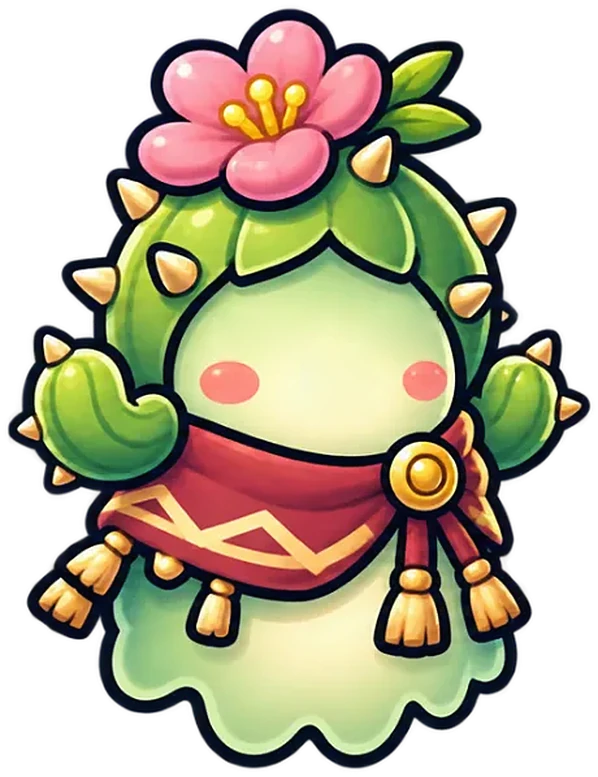
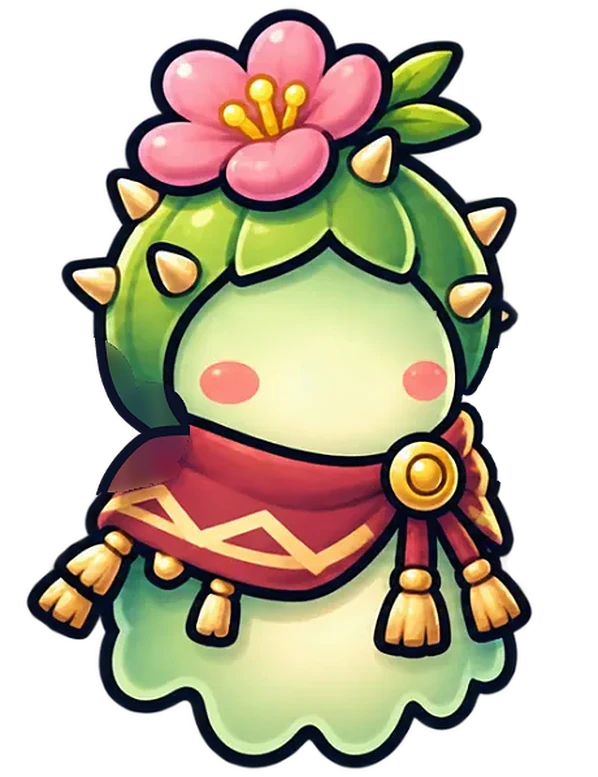
Piks's arms are cut out of the figure and turn on hinges of their own
Bending the body picture dragged parts of the head along and tore a spike.
build_new.py now finds each arm by its dark contour, cuts it out as a picture
of its own and paints in what the front arm covered. The rig turns such an arm
by a share of a loose arm's turn, within limits, and draws an arm that lies
behind the body before it.

Changed region(s): [[0.0, 0.4015, 0.3311, 0.6486], [0.7525, 0.4015, 0.9933, 0.6178]]

diff --git a/app/src/data/rigs.gen.ts b/app/src/data/rigs.gen.ts
@@ -21,7 +21,7 @@ export const RIGS: Record<string, RigConfig> = {
   "phoenix": {"k": 0.5064, "cx": 348.8, "cy": 433.5, "pivot": 175.4, "eyeY": 304.0, "eyeDX": 60.0, "mouth": [353.6, 334.4], "blush": [0, 0, 0], "fs": 1.0, "ms": 0.83, "u": 0.589, "m": 0.731, "eyes": "LR", "armL": {"at": [16.0, 455.0], "anchor": [0, 0], "s": 1, "hand": [-8.8, 43.8]}, "armR": {"at": [546.0, 455.0], "anchor": [0, 0], "s": 1, "hand": [8.8, 43.8]}, "tuft": null, "flow": [80.4, 268.9], "breath": [109.6, 168.0], "tail": [423.3, 548, 521.8, 607.6], "top": 7, "baked": ["arms", "blush"], "limbs": {"L": {"at": [227.2, 428.8], "shape": [220.8, 329.6, 112.0, 307.2, -32.0, 328.0, -40.0, 451.2, 25.6, 496.0, 112.0, 521.6, 220.8, 518.4], "ramp": [24.0, 112.0], "gain": -0.2, "max": 17, "lift": 8}, "R": {"at": [422.4, 454.4], "shape": [425.6, 384.0, 480.0, 358.4, 576.0, 364.8, 592.0, 473.6, 540.8, 528.0, 480.0, 531.2, 425.6, 521.6], "ramp": [28.8, 88.0], "gain": -0.2, "max": 17, "lift": 8}}},
   "moondeer": {"k": 0.5239, "cx": 308.0, "cy": 422.3, "pivot": 169.5, "eyeY": 305.6, "eyeDX": 53.6, "mouth": [318.4, 336.0], "blush": [0, 0, 0], "fs": 0.92, "ms": 0.76, "u": 0.535, "m": 0.706, "eyes": "LR", "armL": {"at": [11.0, 457.0], "anchor": [0, 0], "s": 1, "hand": [-8.5, 42.4]}, "armR": {"at": [469.0, 457.0], "anchor": [0, 0], "s": 1, "hand": [8.5, 42.4]}, "tuft": null, "flow": [77.7, 259.9], "breath": [105.9, 162.4], "tail": [403.2, 521, 507.6, 590.6], "top": 10, "baked": ["arms", "blush"], "limbs": {"L": {"at": [179.2, 328.0], "shape": [192.0, 281.6, 112.0, 265.6, 76.8, 300.8, -16.0, 313.6, -16.0, 384.0, 96.0, 400.0, 179.2, 380.8, 198.4, 336.0], "ramp": [12.8, 72.0], "gain": 0.35, "max": 24}, "R": {"at": [403.2, 324.8], "shape": [396.8, 288.0, 440.0, 272.0, 476.8, 297.6, 552.0, 307.2, 552.0, 371.2, 432.0, 384.0, 393.6, 358.4], "ramp": [9.6, 54.4], "gain": 0.35, "max": 24}}},
   "cloud": {"k": 0.4917, "cx": 338.7, "cy": 427.0, "pivot": 180.6, "eyeY": 330.2, "eyeDX": 72.2, "mouth": [345.8, 370.5], "blush": [0, 0, 0], "fs": 1.08, "ms": 0.83, "u": 0.628, "m": 0.752, "eyes": "LR", "armL": {"at": [75.4, 539.5], "anchor": [96.8, 34.7], "s": 1.0, "hand": [24.3, 95.5]}, "armR": {"at": [509.6, 539.5], "anchor": [24.2, 34.7], "s": 1.0, "hand": [95.8, 94.8]}, "tuft": null, "flow": [82.8, 276.9], "breath": [112.9, 173.1], "tail": [436.9, 565, 524.8, 610.9], "top": 8, "baked": ["blush"]},
-  "cactus": {"k": 0.5059, "cx": 330.2, "cy": 415.2, "pivot": 175.5, "eyeY": 338.0, "eyeDX": 70.2, "mouth": [338.0, 377.0], "blush": [0, 0, 0], "fs": 1.1, "ms": 0.79, "u": 0.577, "m": 0.731, "eyes": "LR", "armL": {"at": [55.0, 533.0], "anchor": [0, 0], "s": 1, "hand": [-8.8, 43.9]}, "armR": {"at": [513.0, 533.0], "anchor": [0, 0], "s": 1, "hand": [8.8, 43.9]}, "tuft": null, "flow": [80.4, 269.1], "breath": [109.7, 168.2], "tail": [456.9, 591, 510.3, 594.0], "top": 8, "baked": ["arms", "blush"], "limbs": {"L": {"at": [153.4, 429.0], "shape": [130.0, 327.6, 71.5, 301.6, 6.5, 309.4, -26.0, 422.5, 6.5, 522.6, 97.5, 525.2, 153.4, 488.8, 158.6, 455.0, 184.6, 431.6, 184.6, 392.6, 148.2, 384.8, 140.4, 353.6], "ramp": [20.8, 80.6], "gain": 0.3, "max": 24}, "R": {"at": [483.6, 413.4], "shape": [486.2, 340.6, 509.6, 309.4, 574.6, 299.0, 621.4, 364.0, 624.0, 426.4, 595.4, 483.6, 526.5, 501.8, 486.2, 470.6, 473.2, 431.6, 478.4, 377.0], "ramp": [15.6, 65.0], "gain": 0.3, "max": 24}}},
+  "cactus": {"k": 0.5059, "cx": 330.2, "cy": 415.2, "pivot": 175.5, "eyeY": 338.0, "eyeDX": 70.2, "mouth": [338.0, 377.0], "blush": [0, 0, 0], "fs": 1.1, "ms": 0.79, "u": 0.577, "m": 0.731, "eyes": "LR", "armL": {"at": [158.6, 413.4], "anchor": [158.6, 135.2], "s": 1, "hand": [31.7, 117.1], "gain": 0.4, "up": 42, "down": 12}, "armR": {"at": [497.9, 455.0], "anchor": [44.2, 163.8], "s": 1, "hand": [88.9, 53.6], "gain": 0.16, "up": 16, "down": 0, "back": true}, "tuft": null, "flow": [80.4, 269.1], "breath": [109.7, 168.2], "tail": [415.6, 532, 510.3, 594.0], "top": 8, "baked": ["blush"]},
   "dragon": {"k": 0.6471, "cx": 228.5, "cy": 324.4, "pivot": 137.2, "eyeY": 197.0, "eyeDX": 65.0, "mouth": [218.5, 236.0], "blush": [0, 0, 0], "fs": 0.58, "ms": 0.58, "u": 0.551, "m": 0.572, "eyes": "LR", "armL": {"at": [57.0, 392.0], "anchor": [0, 0], "s": 1, "hand": [-6.9, 34.3]}, "armR": {"at": [502.0, 392.0], "anchor": [0, 0], "s": 1, "hand": [6.9, 34.3]}, "tuft": null, "flow": [62.9, 210.4], "breath": [85.8, 131.5], "tail": [406.7, 527, 398.7, 464.2], "top": 6, "baked": ["arms", "blush"], "limbs": {"L": {"at": [118.0, 292.0], "shape": [128.0, 232.0, 85.0, 210.0, -15.0, 285.0, -15.0, 350.0, 60.0, 380.0, 102.0, 356.0, 118.0, 330.0, 122.0, 300.0], "ramp": [12.0, 60.0], "gain": 0.3, "max": 24}, "R": {"at": [392.0, 312.0], "shape": [402.0, 262.0, 425.0, 236.0, 480.0, 245.0, 548.0, 325.0, 545.0, 375.0, 445.0, 410.0, 388.0, 376.0, 378.0, 340.0, 382.0, 300.0], "ramp": [12.0, 62.0], "gain": 0.3, "max": 24}}},
   "jellyfish": {"k": 0.596, "cx": 266.5, "cy": 351.7, "pivot": 149.0, "eyeY": 323.0, "eyeDX": 78.5, "mouth": [267.0, 364.0], "blush": [0, 0, 0], "fs": 0.74, "ms": 0.7, "u": 0.677, "m": 0.621, "eyes": "LR", "armL": {"at": [62.0, 528.0], "anchor": [0, 0], "s": 1, "hand": [-7.4, 37.2]}, "armR": {"at": [441.0, 528.0], "anchor": [0, 0], "s": 1, "hand": [7.4, 37.2]}, "tuft": null, "flow": [68.3, 228.5], "breath": [93.1, 142.8], "tail": [425.7, 551, 432.4, 503.4], "top": 6, "baked": ["arms", "blush"], "limbs": {"L": {"at": [120.0, 318.0], "shape": [124.0, 250.0, 60.0, 236.0, -15.0, 258.0, -10.0, 335.0, 36.0, 372.0, 62.0, 385.0, 122.0, 376.0], "ramp": [10.0, 55.0], "gain": 0.35, "max": 24}, "R": {"at": [406.0, 322.0], "shape": [402.0, 250.0, 470.0, 236.0, 548.0, 258.0, 540.0, 335.0, 492.0, 382.0, 460.0, 393.0, 402.0, 382.0], "ramp": [10.0, 55.0], "gain": 0.35, "max": 24}, "top": {"at": [266.0, 148.0], "shape": [228.0, 152.0, 220.0, 110.0, 255.0, 20.0, 340.0, -15.0, 450.0, -10.0, 575.0, 70.0, 575.0, 215.0, 475.0, 250.0, 410.0, 202.0, 395.0, 165.0, 330.0, 132.0, 300.0, 152.0], "ramp": [12.0, 80.0], "gain": 0.6, "max": 14}}},
 };

diff --git a/app/src/rig/rig.ts b/app/src/rig/rig.ts
@@ -19,7 +19,7 @@ import { GLINT_FOLLOW, eyePose, lids, pupilShift } from './gaze';
 import { GestureTracker } from './gestures';
 import type { Gesture } from './gestures';
 import { RIGS } from '../data/rigs.gen';
-import type { Limb, RigConfig, Vec } from '../data/rigTypes';
+import type { ArmRig, Limb, RigConfig, Vec } from '../data/rigTypes';
 import { AuraSim, SvgAura } from '../fx/aura';
 import type { AuraBox } from '../fx/aura';
 import { NEUTRAL_LIGHT, lightOn, sceneLight } from '../fx/light';
@@ -104,6 +104,16 @@ interface Lid {
 /** Where the ground shadow lies in the 600-unit stage: close under the ghost, so it reads as its own. */
 const SHADOW_Y = 500;
 const clamp = (v: number, a: number, b: number) => Math.max(a, Math.min(b, v));
+/**
+ * How far an arm is turned. A loose arm turns as far as asked. One that was cut out of the finished figure
+ * hangs where it was painted: it takes a share of the turn and keeps within its limits.
+ */
+function armTurn(a: ArmRig, deg: number, left: boolean): number {
+  if (a.gain === undefined) return deg;
+  // a positive turn raises the left arm and lowers the right one
+  const rise = clamp((left ? deg : -deg) * a.gain, -(a.down ?? 0), a.up ?? 180);
+  return left ? rise : -rise;
+}
 const smooth = (a: number, b: number, v: number) => {
   const x = clamp((v - a) / (b - a), 0, 1);
   return x * x * (3 - 2 * x);
@@ -704,7 +714,7 @@ void main(){
     const a = R.armL;
     const sh = D(a.at[0], a.at[1]);
     // the hand as the arm swings right now: the charm keeps clear of it
-    const off = rot(S.armL.x, (a.hand[0] - a.anchor[0]) * a.s, (a.hand[1] - a.anchor[1]) * a.s);
+    const off = rot(armTurn(a, S.armL.x, true), (a.hand[0] - a.anchor[0]) * a.s, (a.hand[1] - a.anchor[1]) * a.s);
     const hand = D(a.at[0] + off[0], a.at[1] + off[1]);
     const half = CHARM_SIZE / 2;
     const left = view.x + half + 4,
@@ -847,7 +857,7 @@ void main(){
   /** Where a hand is right now, in stage units. */
   function handAt(left: boolean): Vec {
     const a = left ? R.armL : R.armR;
-    const off = rot(left ? S.armL.x : S.armR.x, (a.hand[0] - a.anchor[0]) * a.s, (a.hand[1] - a.anchor[1]) * a.s);
+    const off = rot(armTurn(a, left ? S.armL.x : S.armR.x, left), (a.hand[0] - a.anchor[0]) * a.s, (a.hand[1] - a.anchor[1]) * a.s);
     return D(a.at[0] + off[0], a.at[1] + off[1]);
   }
   function holdEnd() {
@@ -1224,6 +1234,13 @@ void main(){
       return D(x, y);
     };
     const hem: Vec = [(R.cy + R.flow[0]) / body.h, R.flow[1] / body.h];
+    // an arm that lies behind the body is drawn before it, the others after the face
+    const drawArm = (left: boolean) => {
+      const a = left ? R.armL : R.armR;
+      hinged(left ? 'arm_L' : 'arm_R', a.at, a.anchor, armTurn(a, left ? S.armL.x : S.armR.x, left), a.s);
+    };
+    if (R.armL.back) drawArm(true);
+    if (R.armR.back) drawArm(false);
     if (R.tuft) hinged('tuft', R.tuft.at, R.tuft.anchor, R.tuft.rest + S.tuft.x, 1, 1, { glow: clamp(lv * 0.9 + flash, 0, 1.2) });
     drawGrid('body', gx, gy, onBody, 1, { level: lv, glow: clamp((S.glow.x - lv * 0.6) * 0.6, 0, 1), boost: focus, hem });
 
@@ -1300,8 +1317,8 @@ void main(){
     const chatter = 1 + (reduce ? 0 : Math.sin(T * 17) * 0.07 * happy);
     skin('mouth_laugh', mx, my + 16 * u, ms * pop, ms * pop * chatter, M.laugh.x);
 
-    hinged('arm_L', R.armL.at, R.armL.anchor, S.armL.x, R.armL.s);
-    hinged('arm_R', R.armR.at, R.armR.anchor, S.armR.x, R.armR.s);
+    if (!R.armL.back) drawArm(true);
+    if (!R.armR.back) drawArm(false);
     auraSvg.setGlow(glowRgb);
     auraSvg.sync(aura, mode === 'focus');
     drawCharm(sleepy);
@@ -1520,6 +1537,12 @@ export async function renderPortrait(l: Pick<Look, 'ghost'>, size: number): Prom
     ops.push({ im: T[name], p: toStage(u, v), s: s * R.k, deg, anchor });
   };
   if (R.tuft) put('tuft', R.tuft.at[0], R.tuft.at[1], 1, R.tuft.rest, R.tuft.anchor);
+  // an arm that lies behind the body comes first
+  const arm = (name: 'arm_L' | 'arm_R', a: ArmRig, back: boolean) => {
+    if (!!a.back === back) put(name, a.at[0], a.at[1], a.s, 0, a.anchor);
+  };
+  arm('arm_L', R.armL, true);
+  arm('arm_R', R.armR, true);
   const b = T.body;
   put('body', b.naturalWidth / 2, b.naturalHeight / 2);
   put('blush_L', R.cx - R.blush[0], R.blush[1], R.blush[2]);
@@ -1527,8 +1550,8 @@ export async function renderPortrait(l: Pick<Look, 'ghost'>, size: number): Prom
   if (R.eyes.includes('L')) put('eye_open_L', R.cx - R.eyeDX, R.eyeY, R.fs);
   if (R.eyes.includes('R')) put('eye_open_R', R.cx + R.eyeDX, R.eyeY, R.fs);
   put('mouth_smile', R.mouth[0], R.mouth[1], R.ms);
-  put('arm_L', R.armL.at[0], R.armL.at[1], R.armL.s, 0, R.armL.anchor);
-  put('arm_R', R.armR.at[0], R.armR.at[1], R.armR.s, 0, R.armR.anchor);
+  arm('arm_L', R.armL, false);
+  arm('arm_R', R.armR, false);
 
   // frame: the standard box, grown to fit what sticks out
   let x0 = 80,

diff --git a/app/src/data/rigTypes.ts b/app/src/data/rigTypes.ts
@@ -9,6 +9,16 @@ export interface ArmRig {
   s: number;
   /** Hand point in the arm image. */
   hand: Vec;
+  /**
+   * Set for an arm that was cut out of the finished figure and hangs where it was painted (often raised
+   * already): degrees of turn per degree a loose arm would turn.
+   */
+  gain?: number;
+  /** The most such an arm rises and sinks from where it was painted, in degrees. */
+  up?: number;
+  down?: number;
+  /** The arm lies behind the body. */
+  back?: boolean;
 }
 
 /**

diff --git a/rig_tools/build_new.py b/rig_tools/build_new.py
@@ -7,11 +7,12 @@ Its blush, and arms it holds up already, stay where the artist put them.
 
 Usage: python -I build_new.py <kits_dir> [ghost ...]
 """
+import json
 import sys
 from pathlib import Path
 
 import numpy as np
-from PIL import Image
+from PIL import Image, ImageDraw
 from scipy import ndimage as ndi
 from scipy.sparse import lil_matrix
 from scipy.sparse.linalg import spsolve
@@ -136,6 +137,142 @@ def build_figure(gid):
     both.convert("RGB").resize((1500, 500), Image.LANCZOS).save(kits / gid / "_face_out.png")
 
 
+# ---------- arms that are painted into the figure: cut out along their contour, each a picture of its own ----------
+# A part is found by its surface: the light areas inside the rough shape, as far as the dark contour encloses them.
+# The contour around them goes with the part.
+#   front   the part lies in front of the figure. All of it goes, and what it covered is painted in: "behind"
+#           lists, back to front, ("ink", polygon), ("fill", polygon, a point on the visible surface whose colours
+#           are carried in) and ("line", points of a contour that continues one that is visible).
+#   back    (front=False) the part lies behind the figure. The figure keeps its own contour along the cut.
+# All in pixels of _raw/figure.png.
+ARMS = {
+    "cactus": dict(
+        L=dict(rough=[(20, 240), (70, 232), (112, 262), (120, 292), (150, 300), (150, 345), (120, 382), (40, 385), (15, 340)],
+               front=True, behind=[
+                   ("ink", [(128, 296), (152, 296), (152, 336), (128, 336)]),  # where the contours of face, hood and cloth meet
+                   ("fill", [(76.5, 232), (77, 262), (82, 292), (94, 316), (114, 333), (146, 331), (133, 310), (129, 288), (131, 262), (131, 232)], (105, 245)),
+                   ("fill", [(152, 331), (126, 332), (110, 337), (93, 353), (81, 372), (75, 392), (175, 392), (175, 331)], (165, 352)),
+                   ("line", [(76.5, 236), (77, 262), (82, 292), (94, 316), (114, 333)]),      # the side of the hood
+                   ("line", [(131, 262), (129, 288), (133, 310), (145, 329)]),               # the face
+                   ("line", [(152, 331), (126, 332), (110, 337), (93, 353), (81, 372), (75, 392)]),  # the shoulder of the cloth
+               ]),
+        R=dict(rough=[(362, 268), (392, 250), (450, 225), (470, 290), (462, 345), (420, 380), (382, 372), (372, 340), (360, 300)],
+               front=False),
+    ),
+}
+INK = np.array([13, 17, 38.0])
+LINE = 9      # how far the dark contour of a part reaches from its surface
+KEEP = 7.0    # the contour the figure keeps where a part lay behind it
+
+
+def polygon(size, pts, ss=1):
+    """A filled polygon as a mask; ss > 1 gives soft edges (0..1)."""
+    w, h = size
+    m = Image.new("L", (w * ss, h * ss), 0)
+    ImageDraw.Draw(m).polygon([(x * ss, y * ss) for x, y in pts], fill=255)
+    return np.asarray(m.resize((w, h), Image.LANCZOS)).astype(float) / 255 if ss > 1 else np.asarray(m) > 0
+
+
+def stroke(size, pts, width, ss=4):
+    """A smooth line through the points (Catmull-Rom), with round ends, as a soft mask."""
+    w, h = size
+    p = [np.array(v, float) for v in [pts[0]] + list(pts) + [pts[-1]]]
+    q = []
+    for i in range(1, len(p) - 2):
+        for t in np.linspace(0, 1, 40, endpoint=False):
+            q.append(0.5 * (2 * p[i] + (p[i + 1] - p[i - 1]) * t + (2 * p[i - 1] - 5 * p[i] + 4 * p[i + 1] - p[i + 2]) * t * t
+                            + (3 * p[i] - p[i - 1] - 3 * p[i + 1] + p[i + 2]) * t ** 3))
+    q = [(x * ss, y * ss) for x, y in q + [p[-1]]]
+    m = Image.new("L", (w * ss, h * ss), 0)
+    d = ImageDraw.Draw(m)
+    d.line(q, fill=255, width=round(width * ss), joint="curve")
+    r = width * ss / 2
+    for x, y in q:
+        d.ellipse([x - r, y - r, x + r, y + r], fill=255)
+    return np.asarray(m.resize((w, h), Image.LANCZOS)).astype(float) / 255
+
+
+def split_arms(gid):
+    """Take the arms out of body.png: arm_L.png and arm_R.png, and the body without them.
+    arms.json says where each arm picture lies in the figure (its top left corner)."""
+    spec = ARMS[gid]
+    fig = Image.open(kits / gid / "body.png").convert("RGBA")
+    a = np.asarray(fig).astype(np.float64)
+    h, w = a.shape[:2]
+    size = (w, h)
+    lum = a[..., :3] @ LUM
+    al = a[..., 3]
+    opaque = al > 128
+    dark = opaque & (lum < 62)
+    inner = opaque & ~dark
+    lab, n = ndi.label(inner)
+    area = ndi.sum(inner, lab, range(1, n + 1))
+
+    # the surface of each arm
+    arm_in = {}
+    for k in "LR":
+        p = polygon(size, spec[k]["rough"])
+        ids = [i for i in range(1, n + 1) if area[i - 1] > 3 and ((lab == i) & p).sum() / area[i - 1] > 0.9]
+        arm_in[k] = np.isin(lab, ids)
+    # specks of light inside a contour are no surface of their own: next to an arm they go with the arm
+    for k in "LR":
+        near = ndi.distance_transform_edt(~arm_in[k]) <= 16
+        for i in range(1, n + 1):
+            if area[i - 1] < 60 and not arm_in["L"][lab == i].any() and not arm_in["R"][lab == i].any() and (near & (lab == i)).any():
+                arm_in[k] |= lab == i
+    body_in = inner & ~arm_in["L"] & ~arm_in["R"]
+    d_body = ndi.distance_transform_edt(~body_in)
+
+    # surface, contour and the soft rim towards nothing
+    arm = {}
+    for k in "LR":
+        d_arm = ndi.distance_transform_edt(~arm_in[k])
+        arm[k] = arm_in[k] | (dark & (d_arm <= LINE)) | ((al > 0) & ~opaque & (d_arm <= LINE + 3))
+    # flecks of contour that would be left behind go with the arm next to them
+    rest = opaque & ~arm["L"] & ~arm["R"]
+    lb, m = ndi.label(rest)
+    main = lb == (np.argmax(ndi.sum(rest, lb, range(1, m + 1))) + 1)
+    loose = (al > 0) & ~arm["L"] & ~arm["R"] & (ndi.distance_transform_edt(~main) > 2)
+    for k in "LR":
+        arm[k] |= loose & (ndi.distance_transform_edt(~arm[k]) <= 30)
+
+    body = a.copy()
+    origin = {}
+    for k in "LR":
+        m = arm[k]
+        part = a.copy()
+        part[~m, 3] = 0
+        ys, xs = np.nonzero(part[..., 3] > 0)
+        box = (max(0, xs.min() - 4), max(0, ys.min() - 4), min(w, xs.max() + 5), min(h, ys.max() + 5))
+        save(gid, f"arm_{k}", Image.fromarray(np.clip(part, 0, 255).astype(np.uint8)).crop(box))
+        origin[k] = [int(box[0]), int(box[1])]
+        if not spec[k]["front"]:
+            # the figure keeps a contour of even width along the cut
+            body[m, 3] = np.minimum(body[m, 3], 255 * np.clip(KEEP + 0.5 - d_body[m], 0, 1))
+            continue
+        paint = np.zeros((h, w, 4))
+
+        def lay(mask, rgb):
+            t = np.clip(mask, 0, 1)[..., None]
+            paint[..., :3] = rgb * t + paint[..., :3] * (1 - t)
+            paint[..., 3:] = np.maximum(paint[..., 3:], t * 255)
+
+        for step in spec[k]["behind"]:
+            if step[0] == "ink":
+                lay(polygon(size, step[1], 4), INK)
+            elif step[0] == "line":
+                lay(stroke(size, step[1], 7.5), INK)
+            else:
+                # each pixel takes the colour of the nearest pixel of that surface; then the patch is smoothed
+                x, y = step[2]
+                source = lab == lab[int(y), int(x)]
+                iy, ix = ndi.distance_transform_edt(~source, return_distances=False, return_indices=True)
+                lay(polygon(size, step[1], 4), ndi.gaussian_filter(a[iy, ix, :3], (5, 5, 0)))
+        body = np.where(m[..., None], paint, body)
+    save(gid, "body", Image.fromarray(np.clip(body, 0, 255).astype(np.uint8)))
+    (kits / gid / "arms.json").write_text(json.dumps(origin))
+
+
 def build_phoenix():
     g = "phoenix"
     build_figure(g)
@@ -168,6 +305,7 @@ def build_cloud():
 def build_cactus():
     g = "cactus"
     build_figure(g)
+    split_arms(g)
     flat_l, flat_r = raw(g, "eye_flat_L"), raw(g, "eye_flat_R")
     face(g, eye_open_L="eye_open_L", eye_open_R="eye_open_R", eye_happy_L="eye_happy_L", eye_happy_R="eye_happy_R",
          eye_sleep_L=flip_v(flat_l), eye_sleep_R=flip_v(flat_r), mouth_laugh="mouth_laugh", mouth_o="mouth_o",

diff --git a/rig_tools/kit_rigs.py b/rig_tools/kit_rigs.py
@@ -80,9 +80,12 @@ NEW = {
     "cloud": dict(up=1.3, height=385, cx=260.5, eye_y=254, eye_dx=55.5, mouth=(266, 285), fs=1.08, ms=0.83,
                   arm_l=(58, 415), arm_r=(392, 415), arm_s=1.0),
     # the cactus arms it holds up
-    "cactus": dict(up=1.3, height=385, cx=254, eye_y=260, eye_dx=54, mouth=(260, 290), fs=1.1, ms=0.79, limbs=dict(
-        L=limb((118, 330), [(100, 252), (55, 232), (5, 238), (-20, 325), (5, 402), (75, 404), (118, 376), (122, 350), (142, 332), (142, 302), (114, 296), (108, 272)], (16, 62)),
-        R=limb((372, 318), [(374, 262), (392, 238), (442, 230), (478, 280), (480, 328), (458, 372), (405, 386), (374, 362), (364, 332), (368, 290)], (12, 50)))),
+    # Its arms are cut out of the figure (build_new.py, ARMS) and hang where they were painted.
+    #   at: the joint. gain: degrees of turn per degree a loose arm would turn. up, down: the most it rises and
+    #   sinks from where it was painted. back: it lies behind the figure.
+    "cactus": dict(up=1.3, height=385, cx=254, eye_y=260, eye_dx=54, mouth=(260, 290), fs=1.1, ms=0.79, arms=dict(
+        L=dict(at=(122, 318), gain=0.4, up=42, down=12),
+        R=dict(at=(383, 350), gain=0.16, up=16, down=0, back=True))),
     # the wings flap; the paws lie in front of the cape and stay
     "dragon": dict(up=1.0, height=385, cx=228.5, eye_y=197, eye_dx=65, mouth=(218.5, 236), fs=0.58, ms=0.58, limbs=dict(
         L=limb((118, 292), [(128, 232), (85, 210), (-15, 285), (-15, 350), (60, 380), (102, 356), (118, 330), (122, 300)], (12, 60)),

diff --git a/app/tools/import_kits.py b/app/tools/import_kits.py
@@ -133,7 +133,7 @@ for gid, R in RIGS.items():
 for gid, R in NEW.items():
     dst = PUB / "ghosts" / gid
     f = R["up"]
-    arms = "arm_l" in R
+    arms = "arm_l" in R or "arms" in R
     names = [p for p in PARTS if not p.startswith("blush") and (arms or not p.startswith("arm"))]
     ims = {}
     for p in names:
@@ -148,7 +148,19 @@ for gid, R in NEW.items():
     cy = y1 - (FOOT - 280) / k
     ex, ey = round(R["cx"] * f, 1), round(R["eye_y"] * f, 1)
     mx, my = round(R["mouth"][0] * f, 1), round(R["mouth"][1] * f, 1)
-    if arms:
+    if "arms" in R:
+        # arms cut out of the figure: each hangs where it was painted and turns by a share of what a loose arm does
+        origin = json.loads((kits / gid / "arms.json").read_text())
+
+        def cut_arm(key):
+            A, im = R["arms"][key], ims[f"arm_{key}"]
+            anc = [round((A["at"][0] - origin[key][0]) * f, 1), round((A["at"][1] - origin[key][1]) * f, 1)]
+            d = dict(at=[round(A["at"][0] * f, 1), round(A["at"][1] * f, 1)], anchor=anc, s=1, hand=hand_point(im, anc),
+                     gain=A["gain"], up=A["up"], down=A["down"])
+            return dict(d, back=True) if A.get("back") else d
+
+        armL, armR = cut_arm("L"), cut_arm("R")
+    elif arms:
         aL, aR = ims["arm_L"], ims["arm_R"]
         ancL = [round(aL.width * 0.8, 1), round(aL.height * 0.28, 1)]
         ancR = [round(aR.width * 0.2, 1), round(aR.height * 0.28, 1)]

diff --git a/README.md b/README.md
@@ -77,7 +77,7 @@ Jeder Push auf `main` baut die App und veröffentlicht sie über GitHub Actions 
 | `rig_parts/` | Die daraus geschnittenen Einzelteile |
 | `rig_tools/` | Python-Werkzeuge zum Schneiden und Prüfen der Teile |
 
-Es gibt zwei Generationen von Bausätzen. Die erste zeigt den Körper mit Kostüm, aber ohne Gesicht; Arme, Augen, Münder und Wangen liegen einzeln daneben. Die zweite (Wolke, Kaktus, Drache, Qualle, Phönix, Mondhirsch) zeigt die fertige Figur mit gemaltem Gesicht. Bei ihr ist die fertige Figur der Körper: `build_new.py` rechnet Augen und Mund wieder heraus, die Wangen und schon erhobene Arme bleiben im Bild. So sehen diese Geister genau aus wie auf ihrem Bogen. Der Preis dafür: Lose Arme hat davon nur Nimbus. Bei den anderen fünf biegen sich Teile des Körperbilds an einem Gelenk, so wie sich sonst ein Arm dreht: bei Kaktus die erhobenen Arme, bei Drache und Phönix die Flügel, bei der Qualle die Flossen und die Laterne an ihrem Stiel, beim Mondhirsch die Ohren. Das Bild ist dafür ein feines Netz; was im Umriss eines Teils liegt, dreht sich um das Gelenk, und zum Körper hin läuft die Drehung aus. Umrisse und Gelenke stehen in `rig_tools/kit_rigs.py` unter `limbs`.
+Es gibt zwei Generationen von Bausätzen. Die erste zeigt den Körper mit Kostüm, aber ohne Gesicht; Arme, Augen, Münder und Wangen liegen einzeln daneben. Die zweite (Wolke, Kaktus, Drache, Qualle, Phönix, Mondhirsch) zeigt die fertige Figur mit gemaltem Gesicht. Bei ihr ist die fertige Figur der Körper: `build_new.py` rechnet Augen und Mund wieder heraus, die Wangen und schon erhobene Arme bleiben im Bild. So sehen diese Geister genau aus wie auf ihrem Bogen. Der Preis dafür: Lose Arme hat davon nur Nimbus. Beim Kaktus sind die erhobenen Arme aus der Figur geschnitten: `build_new.py` findet jeden Arm an seiner dunklen Kontur, macht ihn zu einem eigenen Bild und malt nach, was der vordere Arm verdeckt hat (unter `ARMS`). Er dreht sich dann an einem Gelenk wie ein loser Arm, nur um einen Teil des Wegs; der rechte liegt hinter dem Kopf und hebt sich deshalb nur wenig. Bei den anderen vier biegen sich Teile des Körperbilds an einem Gelenk, so wie sich sonst ein Arm dreht: bei Drache und Phönix die Flügel, bei der Qualle die Flossen und die Laterne an ihrem Stiel, beim Mondhirsch die Ohren. Das Bild ist dafür ein feines Netz; was im Umriss eines Teils liegt, dreht sich um das Gelenk, und zum Körper hin läuft die Drehung aus. Umrisse und Gelenke stehen in `rig_tools/kit_rigs.py` unter `limbs`.
 
 Neue Bausätze übernehmen (aus dem Ordner `chargegeist_rework`):
 
